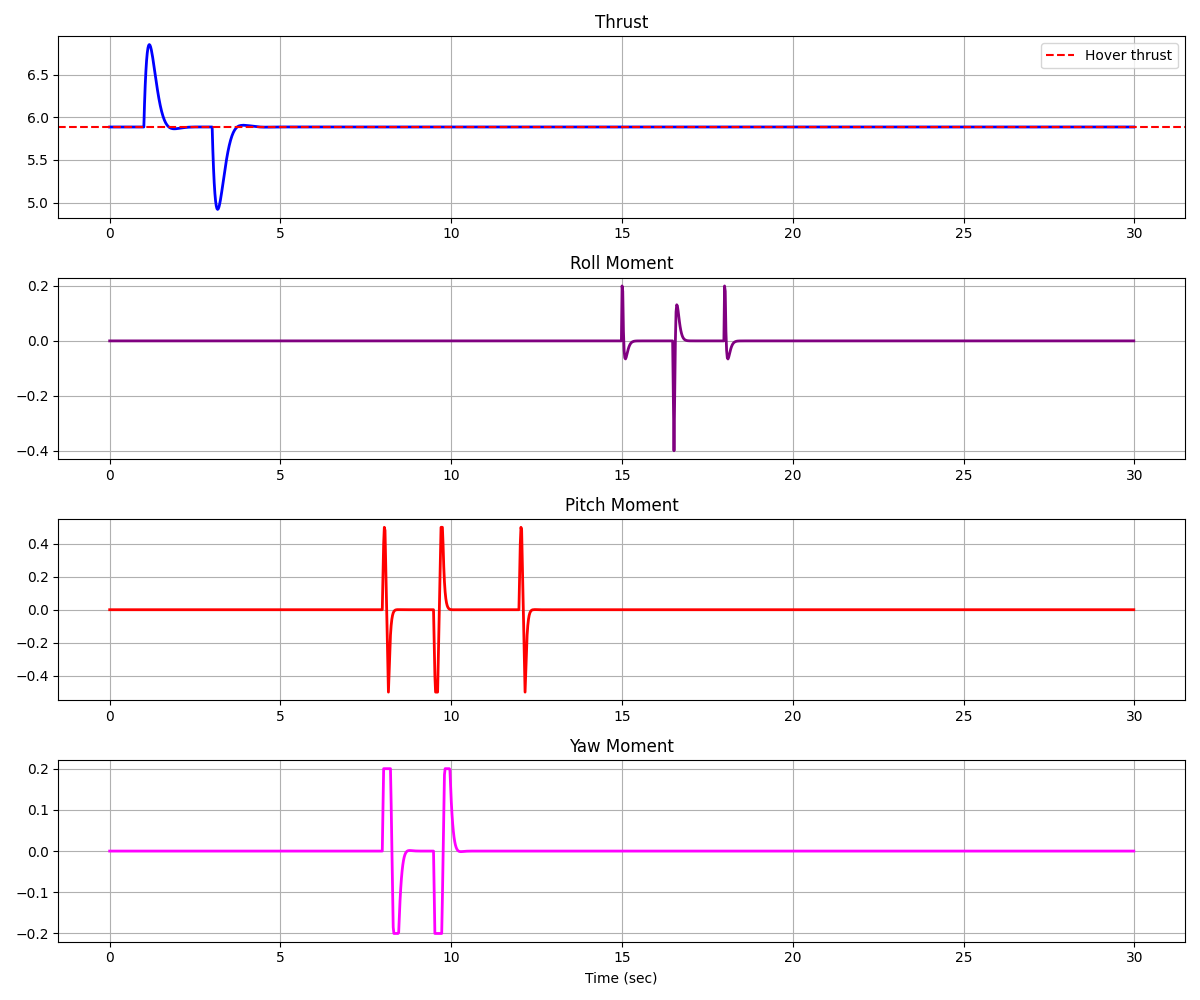
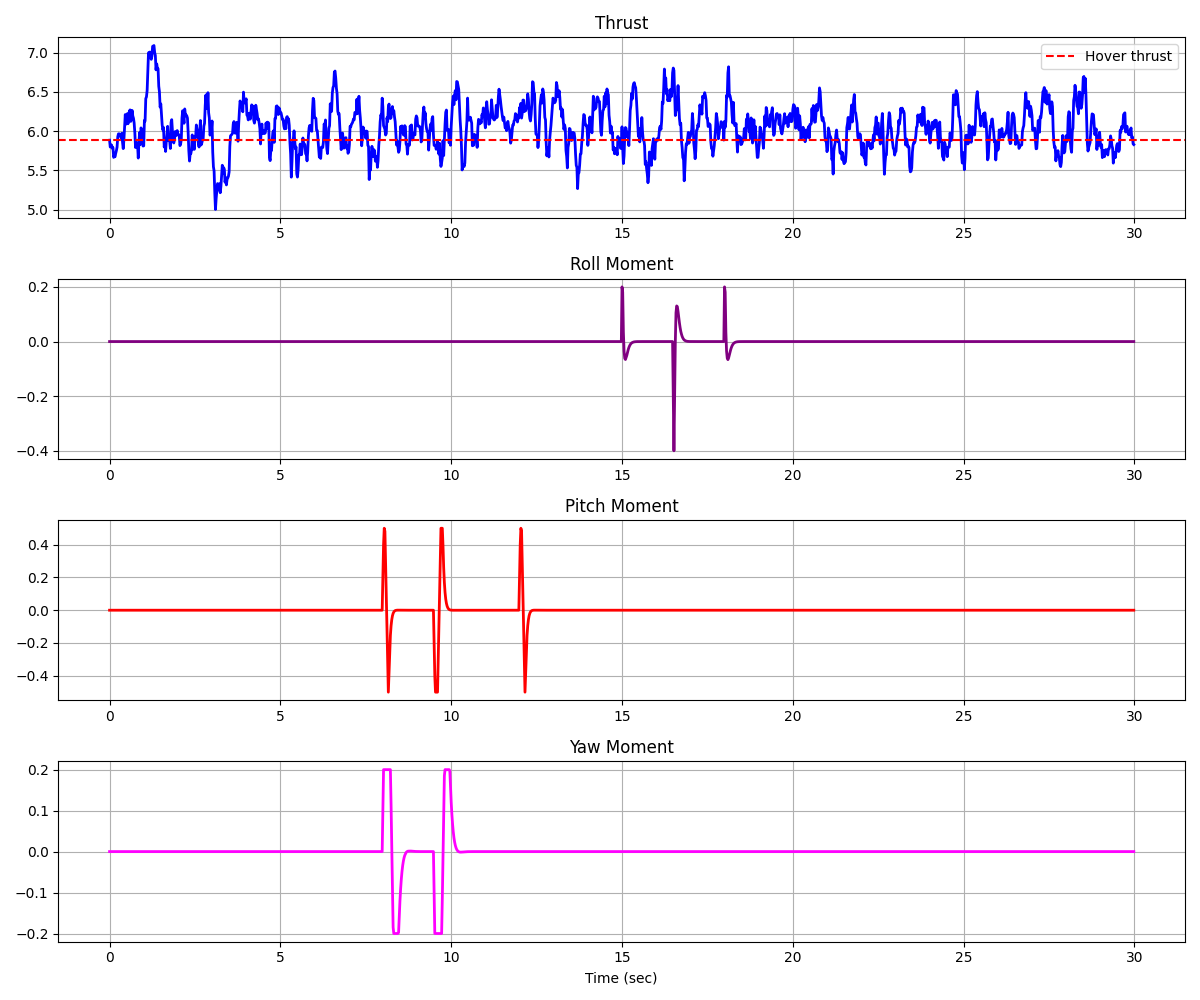
Porgrama con perturbaciones
Perturbaciones añadidas y thrust corregido.

diff --git a/MPC.py b/MPC.py
@@ -288,8 +288,15 @@ def simulate_test_scenario(total_time=30.0):
         # Simular la dinámica del dron
         next_state = np.copy(states[k])
         
-        # Actualizar velocidades (con gravedad correctamente aplicada)
-        next_state[1] += dt * (control[0] / mpc.m - mpc.g)  # dz (aceleración vertical)
+        # Perturbación simulada (viento descendente constante)
+        wind_disturbance = -0.15  # [N] de empuje negativo
+
+        # Ruido leve en la estimación de velocidad vertical
+        dz_noise = np.random.normal(0, 0.02)  # media 0, desviación 0.02 m/s
+
+        # Actualizar velocidad vertical con perturbación y ruido
+        next_state[1] += dt * ((control[0] + wind_disturbance) / mpc.m - mpc.g) + dz_noise
+
         next_state[3] += dt * control[1] / mpc.Ixx  # droll
         next_state[5] += dt * control[2] / mpc.Iyy  # dpitch
         next_state[7] += dt * control[3] / mpc.Izz  # dyaw
